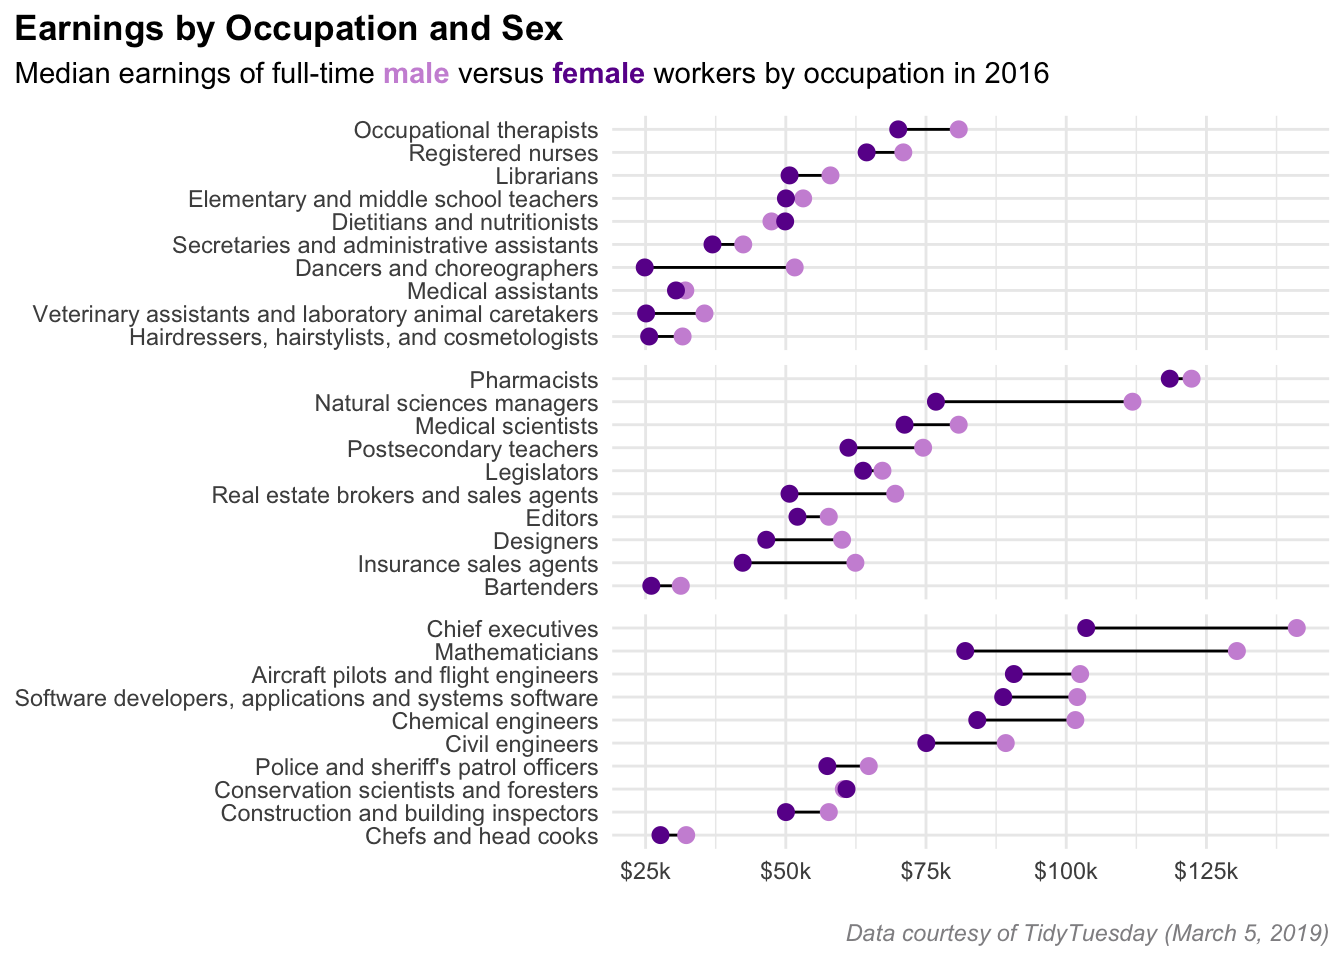
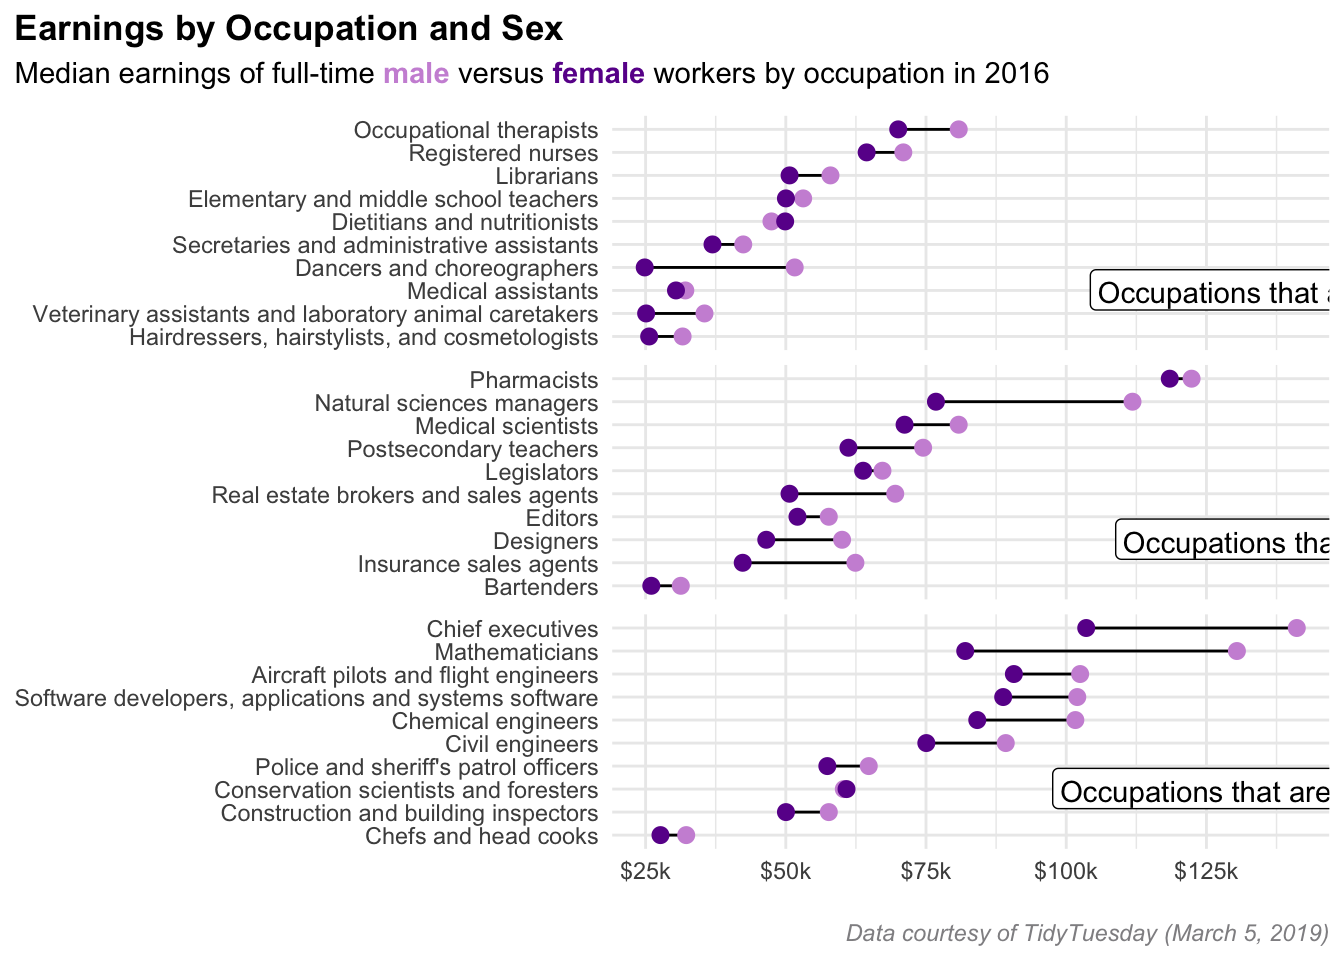
labels on but not positioned correctly

Changed region(s): [[0.8125, 0.5312, 1.0, 0.5938], [0.8125, 0.2812, 1.0, 0.3438], [0.7812, 0.8125, 1.0, 0.8438]]

diff --git a/index.html b/index.html
@@ -466,7 +466,7 @@ Stacked area plots should be used with caution.
 <span id="cb8-5"><a href="#cb8-5" aria-hidden="true" tabindex="-1"></a><span class="co"># use this dataset if you want to explore all occupations included in the original TidyTuesday dataset</span></span>
 <span id="cb8-6"><a href="#cb8-6" aria-hidden="true" tabindex="-1"></a><span class="co"># all_jobs &lt;- readRDS(here::here("clean-data", "all_jobs.rds")) </span></span>
 <span id="cb8-7"><a href="#cb8-7" aria-hidden="true" tabindex="-1"></a></span>
-<span id="cb8-8"><a href="#cb8-8" aria-hidden="true" tabindex="-1"></a><span class="co"># filtered data for plotting (original data contains too many to plot at once)</span></span>
+<span id="cb8-8"><a href="#cb8-8" aria-hidden="true" tabindex="-1"></a><span class="co"># filtered data for plotting (original data contains too many occupations to plot at once)</span></span>
 <span id="cb8-9"><a href="#cb8-9" aria-hidden="true" tabindex="-1"></a><span class="co"># includes only 10 occupations from each of the following categories (occupations that are 75%+ women, 45-55% women, and 75%+ men)</span></span>
 <span id="cb8-10"><a href="#cb8-10" aria-hidden="true" tabindex="-1"></a>select_jobs <span class="ot">&lt;-</span> <span class="fu">readRDS</span>(here<span class="sc">::</span><span class="fu">here</span>(<span class="st">"clean-data"</span>, <span class="st">"select_jobs.rds"</span>)) </span>
 <span id="cb8-11"><a href="#cb8-11" aria-hidden="true" tabindex="-1"></a></span>
